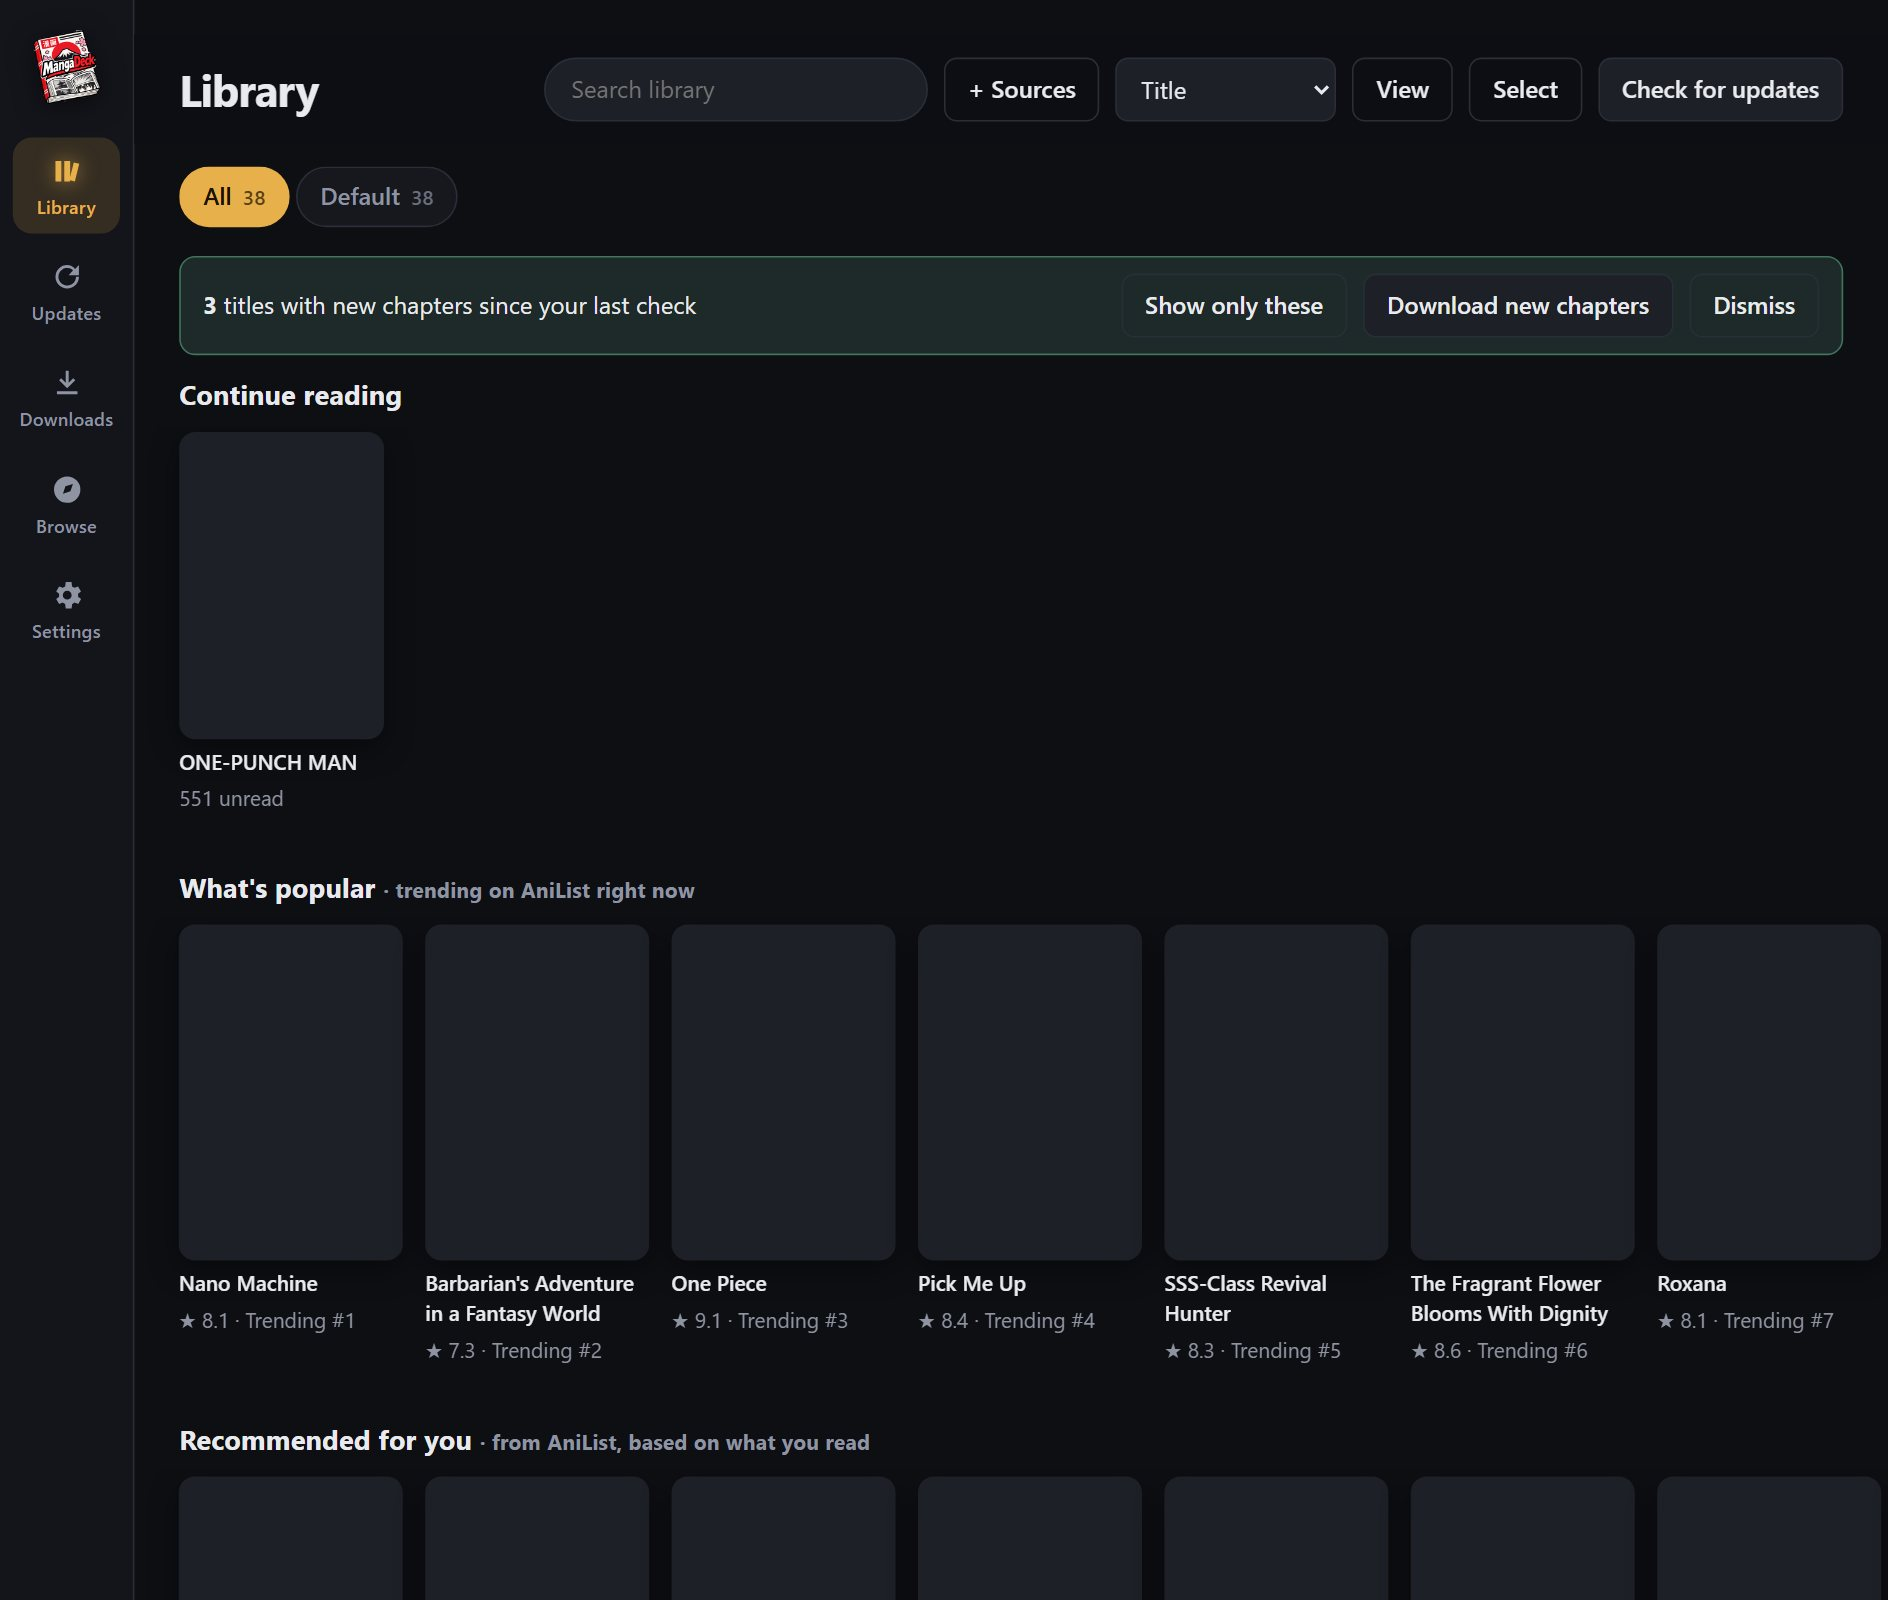
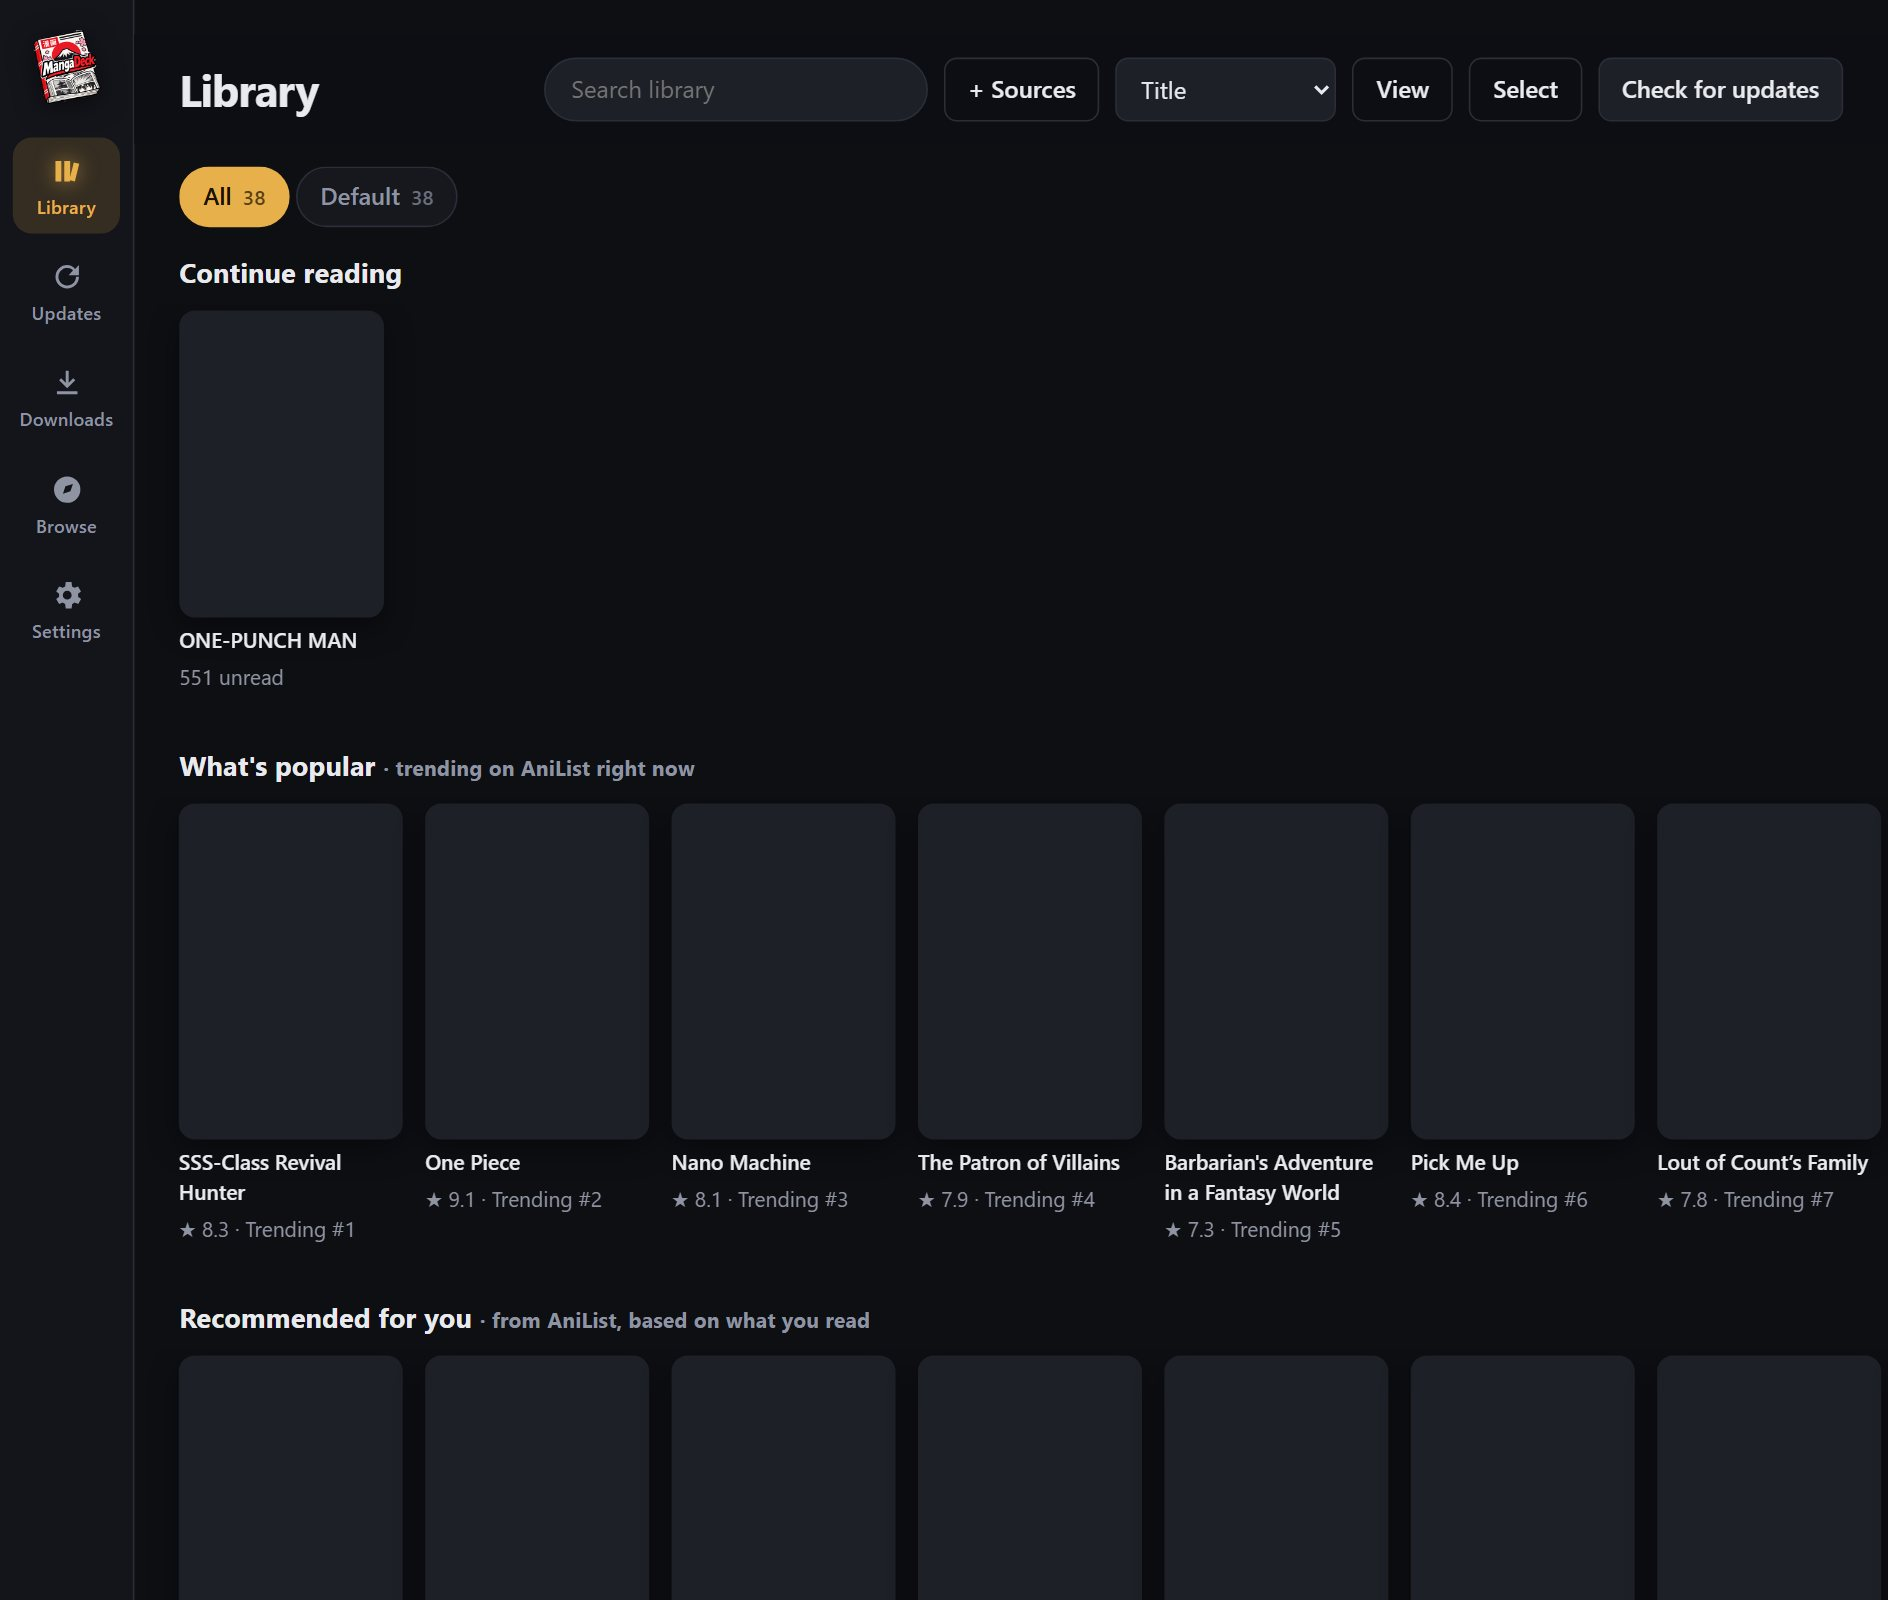
Add a script to retake the README screenshots

diff --git a/CLAUDE.md b/CLAUDE.md
@@ -189,7 +189,10 @@ parts connect, update it; it is plain mxfile XML and can be edited in diagrams.n
   Never send the bearer token or Suwayomi URLs to them; external cover images use a plain `<img>`, not `useImage`.
 - `.hero-bg` (blurred cover) is scaled past the hero; it must keep `pointer-events: none` or it eats clicks on the
   chapter toolbar. Check hover bugs with `document.elementFromPoint` at several heights, not just the center.
-- For README screenshots the manga covers are hidden on purpose (public repo); see `docs/screenshots/`.
+- For README screenshots the manga covers are hidden on purpose (public repo); see `docs/screenshots/`. `npm run screenshots` retakes the newer
+  ones (downloads page, manga page with volumes and files, merge dialog, library) against `npm run dev` with headless Chrome
+  (`scripts/readme-screenshots.mjs`: pretend jobs/history/folder are injected, covers hidden; uses the maintainer's manga ids, `MANGA_ID` overrides).
+  Retake them when those screens change, and re-export the diagrams in `docs/images/` when the architecture diagram changes.
 - Chapters are fetched newest first (`order: SOURCE_ORDER DESC`). Reader "next" is `list[idx - 1]`, "previous" is `list[idx + 1]`.
 - History uses `filter: { lastReadAt: { greaterThan: "0" } }`. `condition: { isRead: true }` is wrong for it.
 - `startDownloader` with an empty queue makes the server hang about 30 s, so the Start button is disabled when the queue is empty.
